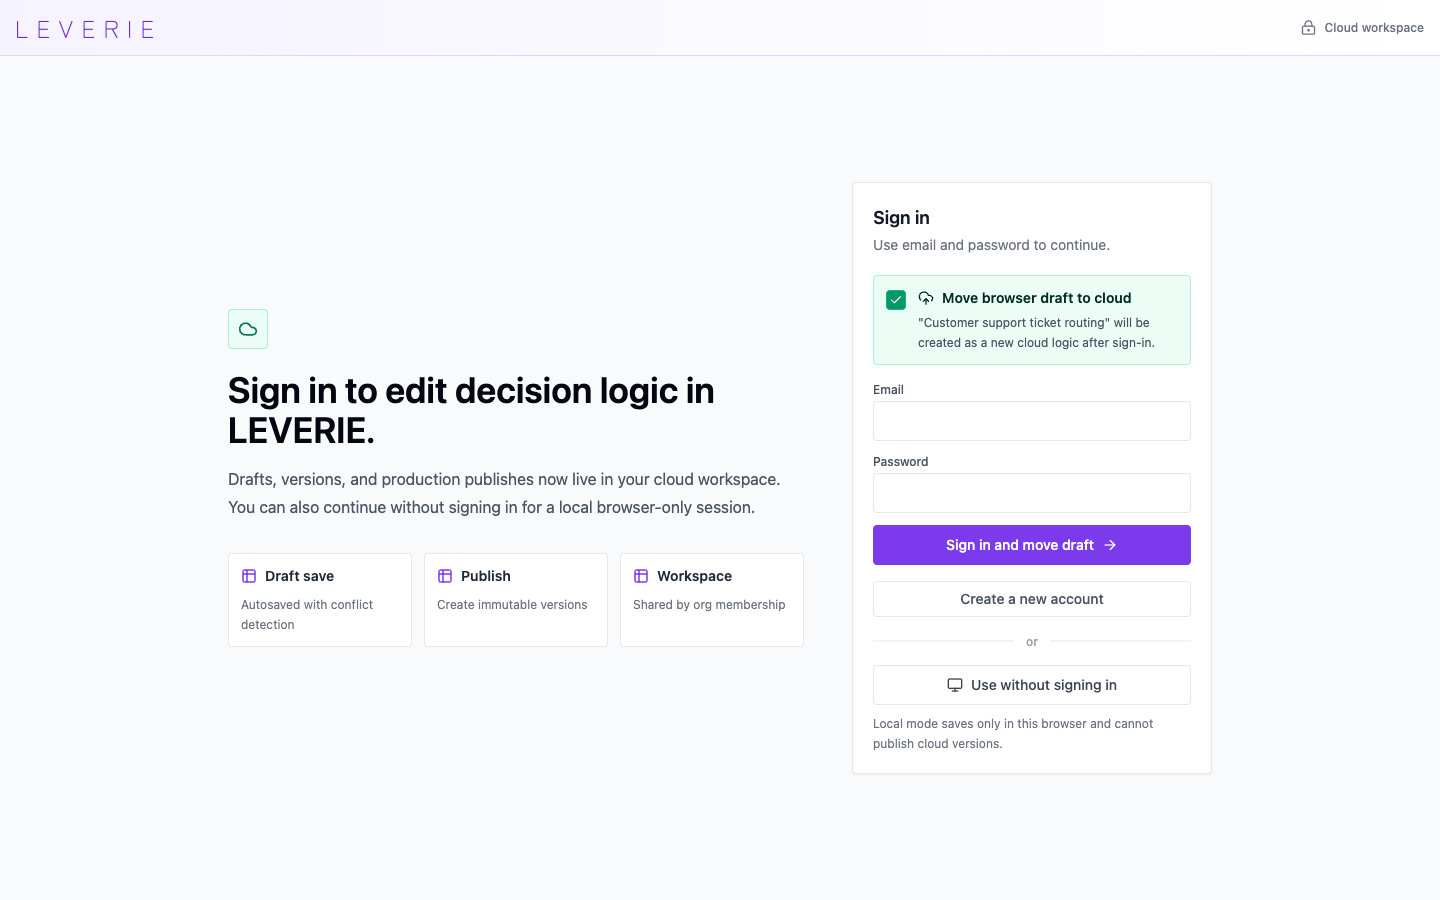
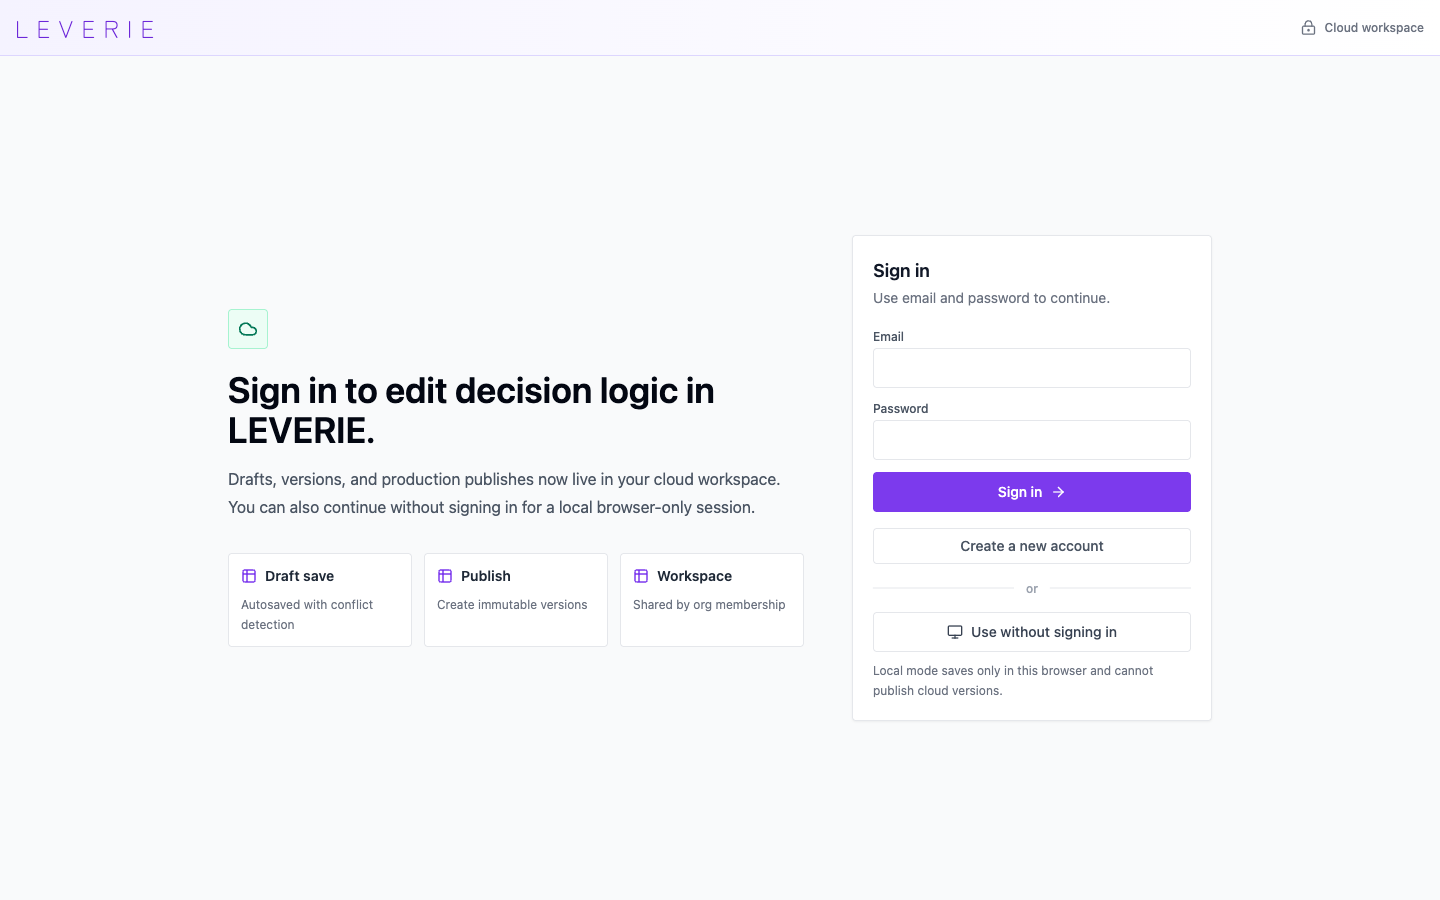
docs: refresh editor screenshots and copy for the redesigned editor
Retake all public/editor-*.png screenshots against the redesigned editor
(new header with Docs link, sidebar reduced to logic name/description and
field definitions, tables as tabs, collapsible Logic overview) at the same
names and sizes. Update the docs copy to match: More actions menu items
(New / Open file / Save backup / Batch test), the moved table graph and
table list, the Start-from-a-sample entry point, the Batch test dialog
buttons, and the removed "Move browser draft to cloud" auth banner.

Changed region(s): [[0.5938, 0.4978, 0.8438, 0.84], [0.5938, 0.2178, 0.8125, 0.4044], [0.5938, 0.4044, 0.6562, 0.4667]]

diff --git a/apps/docs/src/docs/pages/EditorPage.tsx b/apps/docs/src/docs/pages/EditorPage.tsx
@@ -37,14 +37,16 @@ export function EditorPage() {
       <DocSection title="Workspace layout">
         <p>
           The editor is a three-part workspace. A header runs across the top, a
-          sidebar on the left lists the structural building blocks of the logic,
-          and the center is the table or flowchart you are editing. When you are
-          ready to try a case, the evaluation panel slides in from the right.
+          sidebar on the left holds the logic&apos;s name, description, and
+          field definitions, and the center is the table or flowchart you are
+          editing — with the table tabs and a collapsible logic overview sitting
+          above it. When you are ready to try a case, the evaluation panel
+          slides in from the right.
         </p>
         <figure className="media-card">
           <img
             src={asset('editor-table.png')}
-            alt="LEVERIE editor with header, left sidebar showing tables and field definitions, decision table in the center, and the evaluation panel on the right."
+            alt="LEVERIE editor with header, left sidebar showing the logic name and field definitions, table tabs and the decision table in the center, and the evaluation panel on the right."
           />
           <figcaption>
             Header (top), sidebar (left), decision table (center), and
@@ -56,12 +58,12 @@ export function EditorPage() {
             {
               icon: LayoutPanelLeft,
               title: 'Sidebar',
-              body: 'Lists tables, fields, and a small flowchart preview so you can navigate without leaving the page.',
+              body: 'Holds the logic name, description, and field definitions — the typed inputs every table shares.',
             },
             {
               icon: MousePointer2,
               title: 'Main work area',
-              body: 'Switches between a table view (row-by-row authoring) and a flowchart view (read-only structure).',
+              body: 'Tables are tabs across the top, with a collapsible logic overview above and a table or flowchart view below.',
             },
             {
               icon: Sparkles,
@@ -93,7 +95,11 @@ export function EditorPage() {
             ],
             [
               'More actions',
-              'A menu for New, Import, Export, Sample templates, and Batch test. New is destructive in local mode; export your logic first if you want to keep it.',
+              'A menu for New, Open file, Save backup, and Batch test. New is destructive in local mode; save a backup first if you want to keep your work. Open file and Save backup appear in local mode only.',
+            ],
+            [
+              'Docs',
+              'Opens this documentation in a new tab so you can keep the editor open beside it.',
             ],
           ]}
         />
@@ -103,26 +109,22 @@ export function EditorPage() {
             alt="The More actions menu in the LEVERIE editor header with File and Tools sections."
           />
           <figcaption>
-            The More actions menu groups document operations (File) and
-            authoring tools (Sample templates, Batch test).
+            The More actions menu groups document operations (File: New, Open
+            file, Save backup) and authoring tools (Tools: Batch test).
           </figcaption>
         </figure>
       </DocSection>
 
       <DocSection title="Left sidebar">
         <p>
-          The sidebar gives an at-a-glance view of the logic. Three sections
-          stack vertically.
+          The sidebar holds the parts of the logic that stay constant as you
+          move between tables.
         </p>
         <DefinitionList
           items={[
             [
-              'Table Graph',
-              'A miniature flowchart of how tables call each other. Click a node to jump to that table.',
-            ],
-            [
-              'Tables',
-              'A flat list of every table in the logic. The entry table is marked with a ▶. Add and delete tables from here.',
+              'Logic name and description',
+              'Name the logic and describe what it decides. In cloud mode the same area surfaces draft, publish, and workspace controls.',
             ],
             [
               'Field Definitions',
@@ -130,18 +132,22 @@ export function EditorPage() {
             ],
           ]}
         />
-        <Callout icon={MousePointer2} title="Open and close sections">
-          Click any section header to collapse it. On narrower screens the
-          sidebar scrolls independently of the main area so a large field list
-          does not push the table off-screen.
+        <Callout icon={MousePointer2} title="Tables and the table graph moved">
+          The list of tables now lives as tabs across the top of the main work
+          area, and the miniature table graph is the collapsible{' '}
+          <strong>Logic overview</strong> above the table. The Field Definitions
+          header still collapses, and on narrower screens the sidebar scrolls
+          independently so a large field list does not push the table
+          off-screen.
         </Callout>
       </DocSection>
 
       <DocSection title="Main work area">
         <p>
           The center of the editor is the table you are currently working on.
-          The breadcrumb at the top names the table and marks the entry table
-          with ▶. Two buttons on the right toggle between authoring views.
+          Tables are tabs across the top — the entry table carries an entry icon
+          — and a collapsible Logic overview above them shows how the tables
+          connect. Two buttons on the right toggle between authoring views.
         </p>
         <FeatureGrid
           items={[
@@ -189,7 +195,7 @@ export function EditorPage() {
             {
               icon: HardDrive,
               title: 'Local mode',
-              body: 'Logic is saved in browser storage only. No account is needed. Use Import and Export to move between machines.',
+              body: 'Logic is saved in browser storage only. No account is needed. Use Open file and Save backup to move between machines.',
             },
             {
               icon: Cloud,
@@ -199,10 +205,9 @@ export function EditorPage() {
           ]}
         />
         <Callout icon={Cloud} title="Moving a local draft to the cloud">
-          When you sign up while a local draft is open, the auth screen offers
-          to <strong>Move browser draft to cloud</strong>. Accepting it creates
-          a new cloud logic from your local work without overwriting anything
-          already in the workspace.
+          When you sign in or sign up while a local draft is open, the editor
+          keeps that draft and offers it as a new cloud logic once you reach
+          your workspace — without overwriting anything already there.
         </Callout>
       </DocSection>
     </>

diff --git a/apps/docs/src/docs/pages/EvaluationPage.tsx b/apps/docs/src/docs/pages/EvaluationPage.tsx
@@ -90,11 +90,11 @@ export function EvaluationPage() {
         <figure className="media-card">
           <img
             src={asset('editor-batch-test.png')}
-            alt="The Batch test dialog explaining the CSV import format and offering Sample CSV and Choose CSV buttons."
+            alt="The Batch test dialog with a short explanation and Load CSV and Download template buttons."
           />
           <figcaption>
-            The Batch test dialog explains the CSV schema and offers a
-            ready-made sample so you don&apos;t have to guess at column names.
+            The Batch test dialog. Download template gives you a CSV with the
+            right columns; Load CSV runs your filled-in cases.
           </figcaption>
         </figure>
         <DefinitionList
@@ -117,11 +117,11 @@ export function EvaluationPage() {
 
       <DocSection title="Sample templates">
         <p>
-          You don&apos;t have to start from a blank page. The Sample templates
-          dialog (More actions → Sample templates) ships with realistic starting
-          points — customer support routing, refund eligibility, loan review,
-          and more — each with fields, tables, and example rows already wired
-          up.
+          You don&apos;t have to start from a blank page. An empty table shows a{' '}
+          <strong>Start from a sample</strong> button that opens the Sample
+          templates dialog, which ships with realistic starting points —
+          customer support routing, refund eligibility, loan review, and more —
+          each with fields, tables, and example rows already wired up.
         </p>
         <figure className="media-card">
           <img
@@ -135,34 +135,37 @@ export function EvaluationPage() {
         </figure>
         <Callout
           icon={FlaskConical}
-          title="Templates overwrite the current draft"
+          title="Create new, or replace the current draft"
         >
-          Loading a template replaces the current local draft. Export anything
-          you want to keep first.
+          The dialog can create a new draft from a sample or replace the one you
+          are editing. Replacing overwrites the current draft, so save a backup
+          of anything you want to keep first.
         </Callout>
       </DocSection>
 
-      <DocSection title="Importing and exporting">
+      <DocSection title="Backups: Open file and Save backup">
         <p>
           The File group in the More actions menu lets you move logic between
-          machines or save a checkpoint before a risky refactor.
+          machines or save a checkpoint before a risky refactor. These entries
+          appear in local mode; cloud mode persists through autosave and
+          publishing instead.
         </p>
         <FeatureGrid
           items={[
             {
               icon: Download,
-              title: 'Export',
+              title: 'Save backup',
               body: 'Downloads the current logic as a JSON file. Keep these in version control if you treat logic as code.',
             },
             {
               icon: Upload,
-              title: 'Import',
-              body: 'Loads a JSON file produced by Export. Validation runs immediately so a malformed file cannot corrupt the editor.',
+              title: 'Open file',
+              body: 'Loads a JSON file produced by Save backup. Validation runs immediately so a malformed file cannot corrupt the editor.',
             },
             {
               icon: FileSpreadsheet,
               title: 'New',
-              body: 'Clears the current draft. In local mode this is destructive — export first if you want to keep the work.',
+              body: 'Clears the current draft. In local mode this is destructive — save a backup first if you want to keep the work.',
             },
           ]}
         />
@@ -171,7 +174,7 @@ export function EvaluationPage() {
             'Use single evaluation while you are still drafting the rules.',
             'Use batch test before promoting a draft to production.',
             'Keep a small library of canonical test cases — at minimum one per major branch and one no-match case.',
-            'Export the logic JSON after a milestone so you can restore it without relying on browser storage.',
+            'Save a backup of the logic JSON after a milestone so you can restore it without relying on browser storage.',
           ]}
         />
       </DocSection>

diff --git a/apps/docs/src/docs/pages/TablesPage.tsx b/apps/docs/src/docs/pages/TablesPage.tsx
@@ -148,16 +148,18 @@ export function TablesPage() {
         <figure className="media-card">
           <img
             src={asset('editor-flowchart.png')}
-            alt="The flowchart view of the support ticket routing logic showing the Triage table on the left and child tables Escalation and Standard routing on the right."
+            alt="The flowchart view of the Triage table, showing how priority and customer tier branch into continue steps to Escalation and Standard routing alongside a direct conclusion."
           />
           <figcaption>
-            The flowchart view shows the Triage table branching into Escalation
-            or Standard routing. Each box is a table you can click into.
+            The flowchart view of the Triage table. Conditions branch from left
+            to right; a continue step (→ Escalation, → Standard routing) jumps
+            into a child table, while a conclusion ends with outputs.
           </figcaption>
         </figure>
         <p>
-          The sidebar also shows a smaller version of the same graph at the top,
-          so you can navigate while staying in the table view.
+          The collapsible Logic overview above the table shows how every table
+          connects, so you can navigate the whole logic while staying in the
+          table view.
         </p>
       </DocSection>
 

diff --git a/apps/docs/src/docs/pages/IntroductionPage.tsx b/apps/docs/src/docs/pages/IntroductionPage.tsx
@@ -57,7 +57,7 @@ export function IntroductionPage() {
         <figure className="media-card">
           <img
             src={asset('editor-overview.png')}
-            alt="Actual LEVERIE editor showing a customer support routing sample with a decision table, graph, and evaluation panel."
+            alt="Actual LEVERIE editor showing a customer support routing sample with the decision table, the logic overview, and the evaluation panel."
           />
           <figcaption>
             The same logic artifact is edited visually, reviewed by people, and

diff --git a/apps/docs/src/docs/pages/SharingPage.tsx b/apps/docs/src/docs/pages/SharingPage.tsx
@@ -123,7 +123,7 @@ export function SharingPage() {
         <figure className="media-card">
           <img
             src={asset('editor-auth.png')}
-            alt="The LEVERIE auth screen with sign-in form and the option to move browser draft to cloud."
+            alt="The LEVERIE auth screen with the sign-in form, a create-account option, and a link to continue without signing in."
           />
           <figcaption>
             The auth screen used by both sign-up and sign-in, including
